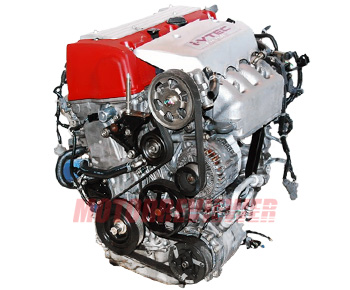
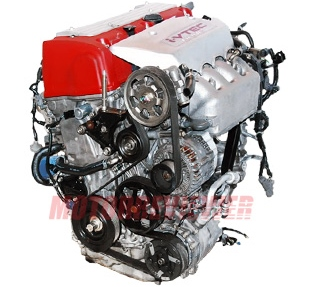
circle image alterations

diff --git a/assets/css/style.css b/assets/css/style.css
@@ -159,18 +159,22 @@ h2 {
 }
 
 #circle-container-one {
-    width: 385px;
-    height: 380px;
+    width: 350px;
+    height: 350px;
     padding: 20px;
     border: 1px solid purple;
     border-radius: 50%;
     margin: 0 auto;
+    
 }
 
 #circle-cover-bg-one {
-    background: url('../images/honda-k20a2-engine-gearbox-swap-package.jpg') no-repeat center center;
-    height: 100%;
+    background: url('../images/K20A_honda.jpg') no-repeat center center;
+    height:100%;
+    width:100%;
     border-radius: 50%;
+    background-color: white;
+    
 }
 
 hr {
